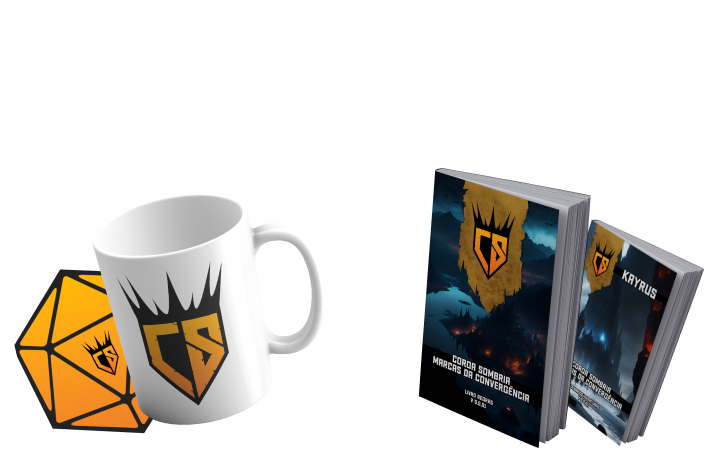
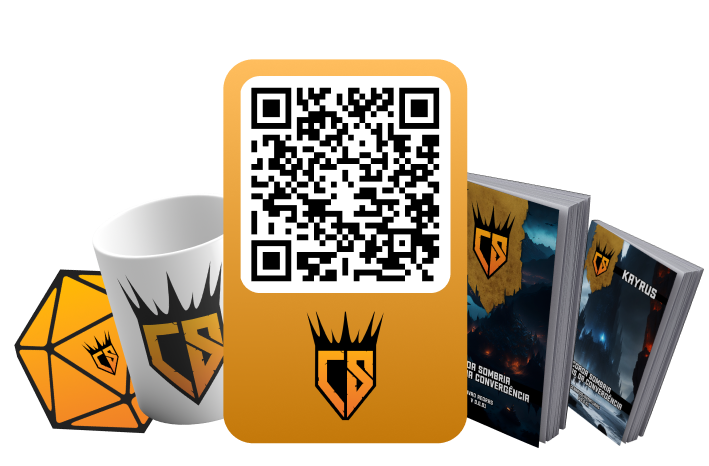
feat: adjusting the responsiveness

Changed region(s): [[0.3103, 0.1202, 0.6827, 0.9614]]

diff --git a/src/pages/RewardsComponent/index.tsx b/src/pages/RewardsComponent/index.tsx
@@ -1,10 +1,10 @@
 import React from 'react';
 import { IRewardsProps } from '../../types/interfaces/IRewardsProps';
-import { Image, ImageContainer, QRCode, Section } from './styles';
+import { Image, Section } from './styles';
 import { Paragraph, ParagraphTitle } from '../../shared/SectionComponent/styles';
 import AOS from 'aos';
 
-export const RewardsComponent: React.FC<IRewardsProps> = ({id, title, paragraph, imgSection, qrCodeImage, linkCartase, animationStart}) => {
+export const RewardsComponent: React.FC<IRewardsProps> = ({ id, title, paragraph, imgSection, linkCartase, animationStart }: IRewardsProps) => {
    AOS.init();
    return (
       <Section id={id}>
@@ -15,15 +15,13 @@ export const RewardsComponent: React.FC<IRewardsProps> = ({id, title, paragraph,
             <ParagraphTitle>{title}</ParagraphTitle>
             {paragraph}
          </Paragraph>
-         <ImageContainer
+         <a href={linkCartase} 
+            target='_blank'
             data-aos={`fade-${animationStart}`}
             data-aos-duration="2000"
          >
             <Image src={imgSection} alt="Imagem dos itens de apoiador do RPG" />
-            <a href={linkCartase} target='_blank'>
-               <QRCode src={qrCodeImage} alt="QR Code para redirecionar para o Cartase" />
-            </a>
-         </ImageContainer>
+         </a>
       </Section>
    );
 };

diff --git a/src/pages/RewardsComponent/styles.ts b/src/pages/RewardsComponent/styles.ts
@@ -9,35 +9,38 @@ export const Section = styled.section`
    justify-content: center;
    align-items: center;
 
+   a{
+      display: inline-block;
+      width: 40rem;
+   }
 
    @media(max-width: 1440px){
-      figure>img{
-         width: 100%;
+      a{
+         width: 27rem;
       }
+   }
 
-      figure>a>img{
-         width: 20%;
+   @media(max-width: 1024px){
+      justify-content: flex-start;
+      a{
+         width: 22rem;
       }
 
       p{
-         font-size:1.1em!important;
+         font-size: 1rem;
+         width: 25rem;
       }
    }
-   
-`
-
-export const ImageContainer = styled.figure`
-   margin: 0 0.1rem;
-   width: "50%";
-   display: flex;
-   align-items: center;
-   justify-content: center;
-   
 `
 
 export const Image = styled.img`
-   width: 34rem;
-   position: relative;
+
+   width: 100%;
+   margin: 0;
+
+   &:hover{
+      transform: scale(1.1);
+   }
 `
 
 export const QRCode = styled.img`
@@ -49,8 +52,11 @@ export const QRCode = styled.img`
 
    transition: all .3s;
 
-   &:hover{
-      transform: scale(1.1);
+  
+
+   @media(max-width: 1440px){
+      width: 22%;
+      left: 38%;
    }
 
 `

diff --git a/src/types/constants/RewardsItens.ts b/src/types/constants/RewardsItens.ts
@@ -5,7 +5,6 @@ export const RewardsItens: IRewardsProps = {
    title: "Recompensas",
    paragraph: "Apoiar nossa campanha no Catarse é uma ótima maneira de nos ajudar a alcançar nossas metas e entregar materiais de alta qualidade para você. Quanto mais conseguirmos arrecadar, mais upgrades poderemos fazer em nossos materiais e recompensas de colecionador. Isso significa que você terá acesso a produtos ainda mais incríveis e exclusivos, que não estarão disponíveis em nenhum outro lugar. Além disso, bater nossas metas nos permitirá expandir o universo do Coroa Sombria: Marcas da Convergência, adicionando ainda mais detalhes e histórias emocionantes. Então, não perca a chance de fazer parte dessa jornada incrível. Junte-se a nós no Catarse e ajude-nos a tornar este universo de fantasia sombria ainda mais emocionante!",
    imgSection: "src/assets/rewards_itens.png",
-   qrCodeImage:"src/assets/qrcode cartase.png",
    linkCartase: "https://www.catarse.me/csmdc",
    animationStart: "left"
 }

diff --git a/src/shared/SwiperCardsComponent/styles.ts b/src/shared/SwiperCardsComponent/styles.ts
@@ -11,7 +11,8 @@ export const CardsContainer = styled.div`
    text-align: center;
    align-items: center;
 
-   margin-right: 5rem;
+  margin-left: 5rem;
+  margin-right: 2rem;
 
    .swiper-slide {
       display: flex;
@@ -25,6 +26,10 @@ export const CardsContainer = styled.div`
       background: linear-gradient(180deg, #FFB548 0%, #C87D0F 100%);
 
       filter: drop-shadow(11px 0px 4px rgba(0, 0, 0, 0.25));
+   }
+
+   @media(max-width: 1024px){
+      
    }
 `
 

diff --git a/src/pages/JoinBetaComponent/styles.ts b/src/pages/JoinBetaComponent/styles.ts
@@ -33,6 +33,10 @@ export const Title = styled.span`
    font-size: 2.5rem;
    font-style: normal;
    font-weight: 400;
+
+   @media(max-width: 1024px){
+      font-size: 2rem;
+   }
 `
 
 export const Subtitle = styled.span`
@@ -40,4 +44,8 @@ export const Subtitle = styled.span`
    font-size: 1.5rem;
    font-style: normal;
    font-weight: 300;
+
+   @media(max-width: 1024px){
+      font-size: 1.1rem;
+   }
 `

diff --git a/src/shared/SectionComponent/styles.ts b/src/shared/SectionComponent/styles.ts
@@ -30,6 +30,18 @@ export const Section = styled.section<ISection>`
          font-size: 1.1rem;
       }
    }
+
+   @media(max-width: 1024px){
+      figure{
+         img{
+            width: 16rem;
+         }
+      }
+
+      p{
+         font-size: 1rem;
+      }
+   }
 `
 
 export const Image = styled.figure<IImage>`

diff --git a/src/pages/TeamComponent/styles.ts b/src/pages/TeamComponent/styles.ts
@@ -11,6 +11,12 @@ export const SectionContainer = styled.section`
 
    margin-top: 7rem;
    margin-bottom: 10rem;
+
+   @media(max-width:1024px){
+      p{
+         font-size: 1rem;
+      }
+   }
 `
 
 export const ParagraphTeam = styled.p`

diff --git a/src/theme/globalStyles.ts b/src/theme/globalStyles.ts
@@ -9,6 +9,8 @@ export const GlobalStyle = createGlobalStyle`
       box-sizing: border-box;
       list-style: none;
       font-family: 'Josefin Sans', sans-serif;
+
+      /* border: 1px solid red; */
    }
 
    html{

diff --git a/src/shared/SocialMediaButtonsComponent/styles.ts b/src/shared/SocialMediaButtonsComponent/styles.ts
@@ -34,4 +34,10 @@ export const Image = styled.figure`
          opacity: 1;
       }
    }
+
+   @media (max-width: 1024px){
+      img{
+         width: 2rem;
+      }
+   }
 `

diff --git a/src/types/interfaces/IRewardsProps.ts b/src/types/interfaces/IRewardsProps.ts
@@ -4,6 +4,5 @@ export interface IRewardsProps {
    paragraph: string,
    linkCartase: string,
    imgSection: string,
-   qrCodeImage: string,
    animationStart: string,
 }
